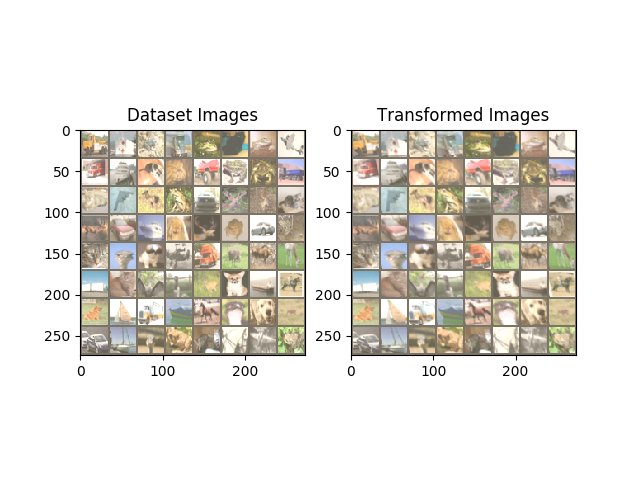
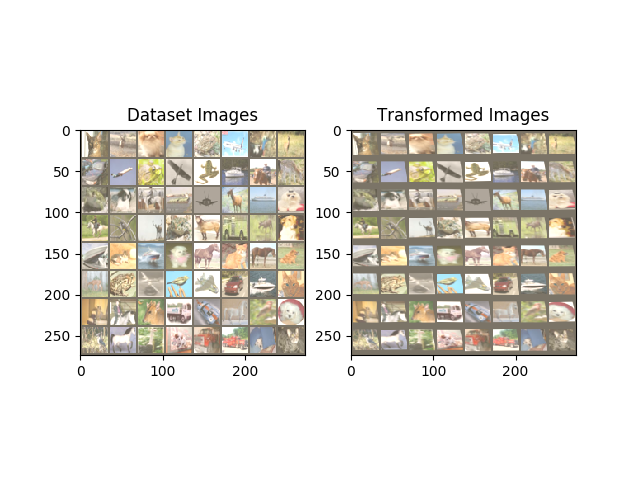
added color module

Changed region(s): [[0.5312, 0.25, 0.9062, 0.75], [0.125, 0.25, 0.5, 0.75]]

diff --git a/spatial_transformer_tutorial.py b/spatial_transformer_tutorial.py
@@ -55,6 +55,15 @@ test_loader = torch.utils.data.DataLoader(
     num_workers=4,
 )
 
+
+class Flatten(nn.Module):
+    def __init__(self):
+        super(Flatten, self).__init__()
+
+    def forward(self, x):
+        return x.view(x.size(0), -1)
+
+
 ### help from https://github.com/aicaffeinelife/Pytorch-STN/blob/master/models/STNModule.py
 class Net(nn.Module):
     def __init__(self):
@@ -72,6 +81,18 @@ class Net(nn.Module):
             nn.MaxPool2d(2, 2),
         )
 
+        # Spatial transformer localization-network
+        self.colorization = nn.Sequential(
+            nn.Conv2d(3, 6, 5),
+            nn.ReLU(True),
+            nn.MaxPool2d(2, 2),
+            nn.Conv2d(6, 16, 5),
+            nn.ReLU(True),
+            nn.MaxPool2d(2, 2),
+            nn.Flatten(),
+            nn.Linear(400, 3),
+        )
+
         # Regressor for the 3 * 2 affine matrix
         self.fc_loc = nn.Sequential(
             nn.Linear(400, 64), nn.ReLU(True), nn.Linear(64, 3 * 2)
@@ -85,12 +106,23 @@ class Net(nn.Module):
 
     # Spatial transformer network forward function
     def stn(self, x):
+
         xs = self.localization(x)
         xs = xs.view(-1, 16 * 5 * 5)
         theta = self.fc_loc(xs)
         theta = theta.view(-1, 2, 3)
 
         return x, theta
+
+    def color_transformer(self, x):
+        color_alter_params = self.colorization(x)
+        transformed = torch.zeros(x.size())
+
+        for i in range(x.size()[0]):
+            for j in range(3):
+                transformed[i, j, :, :] = x[i, j, :, :] * color_alter_params[i][j]
+
+        return transformed
 
     def transform_with_theta(self, x, theta):
         grid = F.affine_grid(theta, x.size())
@@ -100,6 +132,7 @@ class Net(nn.Module):
     def transform(self, x):
         x, theta = self.stn(x)
         x = self.transform_with_theta(x, theta)
+        x = self.color_transformer(x)
         return x
 
     def forward(self, x):
@@ -176,15 +209,20 @@ def train(epoch):
         else:
             optimizer.zero_grad()
             transformer_matrix = model.stn(data)[1]
+            color_params = model.colorization(data)
+
             try:
                 MSE = torch.sum((identity_tensor - transformer_matrix) ** 2)
-
+                color_MSE = torch.sum((color_params) ** 2)
             except:
+                color_MSE = torch.sum((color_params[0:16]) ** 2)
                 MSE = torch.sum((identity_tensor[0:16] - transformer_matrix) ** 2)
 
             perception_loss = 0.2 / (1 + MSE ** 2)
-            #print("perception loss", perception_loss)
-            loss = perception_loss - discriminator_loss
+            color_loss = 0.2 / (1 + color_MSE ** 2)
+            # print("perception loss", perception_loss)
+
+            loss = color_loss + perception_loss - discriminator_loss
             loss.backward()
             optimizer.step()
             discriminator_step = True
